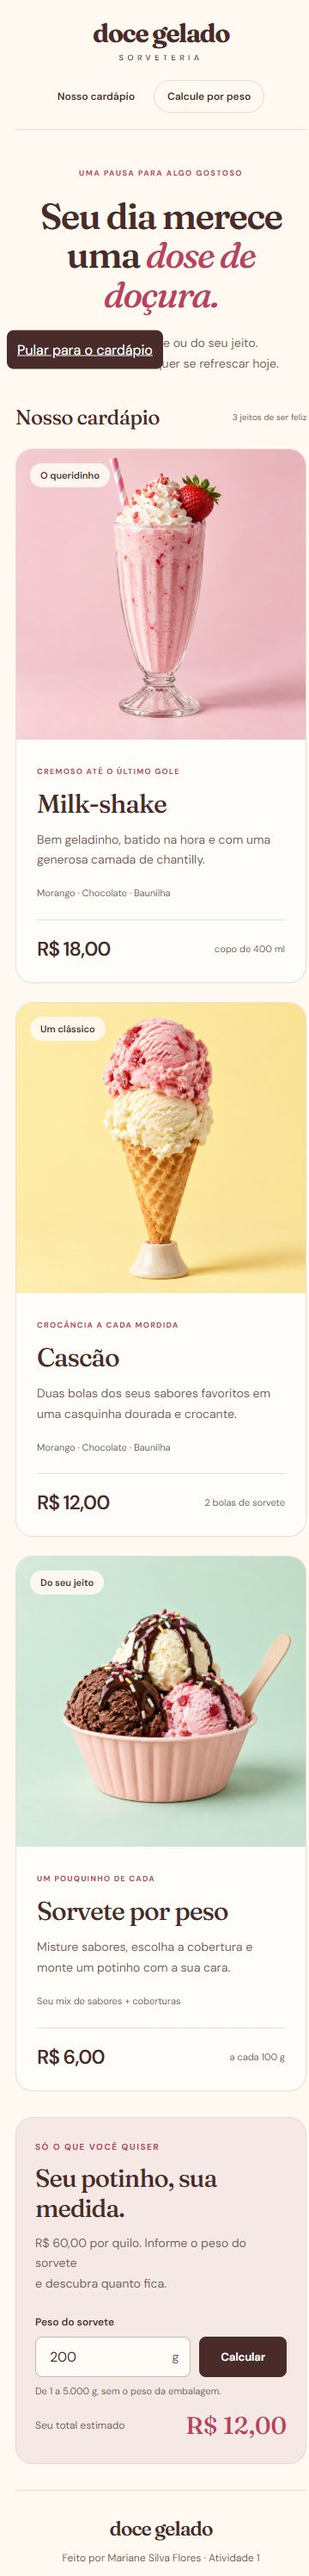
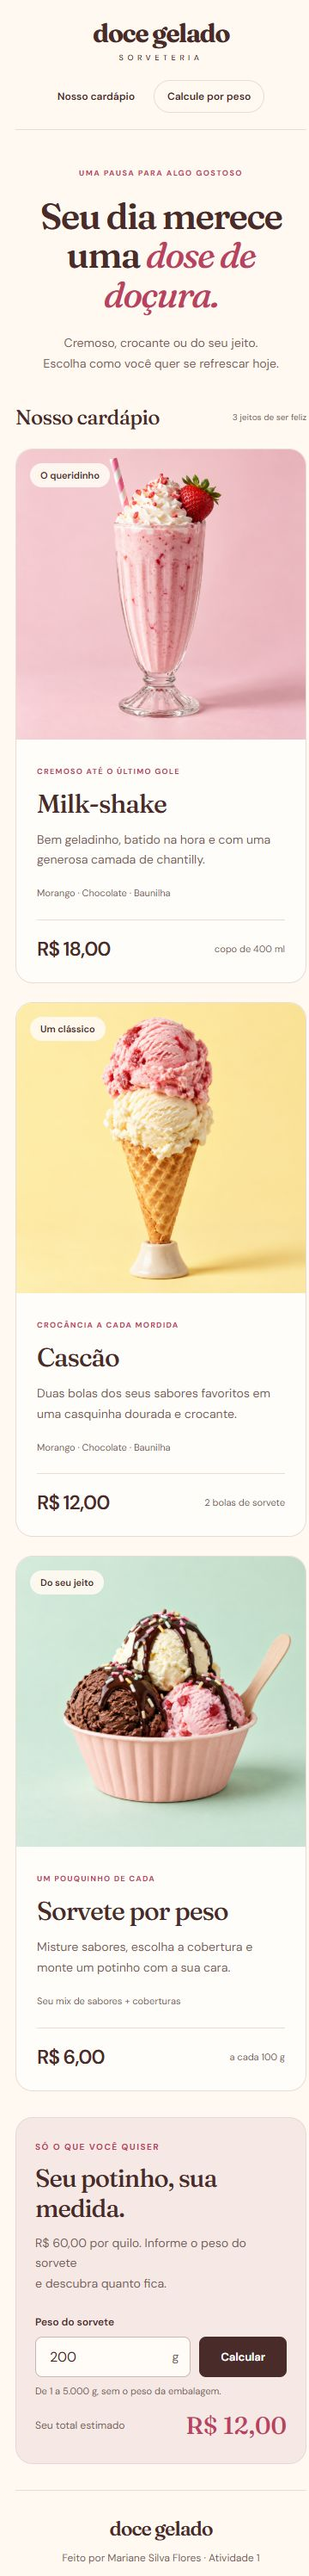
fix: oculta atalho de navegação fora do foco

Changed region(s): [[0.0, 0.1243, 0.55, 0.1554]]

diff --git a/style.css b/style.css
@@ -4,8 +4,8 @@
 html { scroll-behavior:smooth; scroll-padding-top:24px; }
 a:focus-visible,button:focus-visible,input:focus-visible { outline:3px solid var(--pink); outline-offset:4px; }
 input[aria-invalid="true"] { border-color:#9e173b; }
-.skip-link { position:fixed; top:8px; left:8px; z-index:5; transform:translateY(-150%); background:var(--chocolate); color:white; padding:12px; border-radius:8px; }
-.skip-link:focus { transform:translateY(0); }
+.skip-link { position:fixed; top:8px; left:8px; z-index:5; transform:translateY(-150%); opacity:0; background:var(--chocolate); color:white; padding:12px; border-radius:8px; }
+.skip-link:focus { transform:translateY(0); opacity:1; }
 .product { transition:transform .25s ease,box-shadow .25s ease; }
 @media(hover:hover) { .product:hover { transform:translateY(-5px); box-shadow:0 14px 30px #492b2910; } button:hover { background:#70423e; } nav a:hover { color:var(--pink); } }
 @media(prefers-reduced-motion:reduce) { html { scroll-behavior:auto; } .product { transition:none; } }
